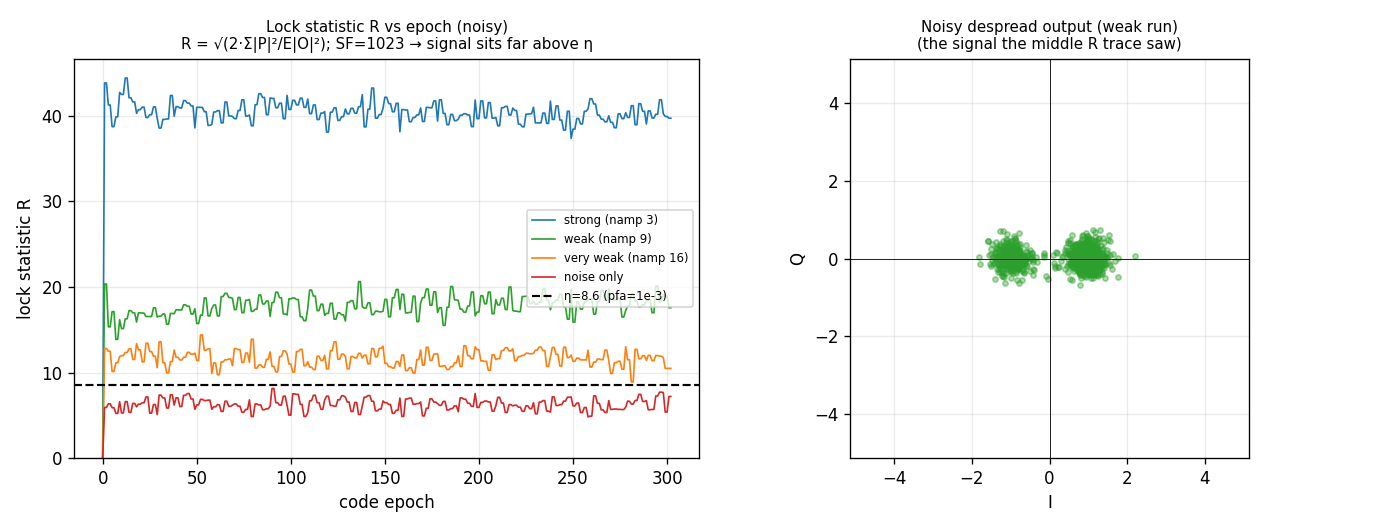
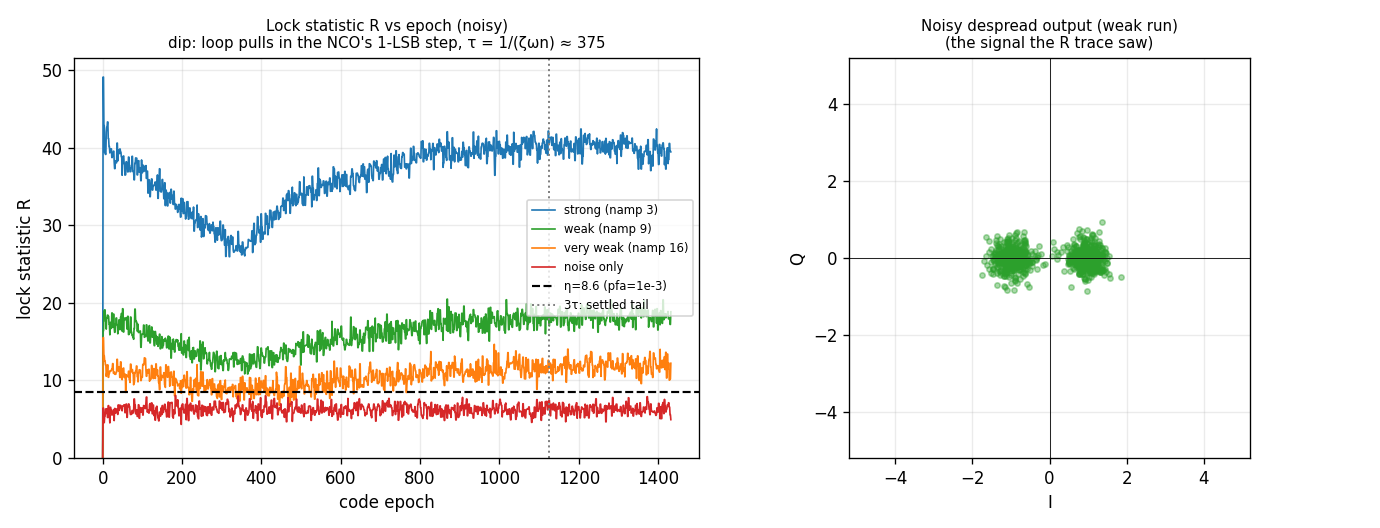
fix(examples): async_despread_demo shows the code loop's pull-in, and gates on it
The Dll's code NCO truncates its increment (15f2a366, nco_core.h:248), so
the loop starts against a code-rate step of about 9.5e-7. That step sets
the size of the transient. The loop bandwidth sets its length:
tau = 1/(zeta*wn), wn = 8*zeta*bn/(1+4*zeta^2), 375 epochs at bn=0.002 and
zeta=0.707. The demo ran 300 epochs, so it showed only the dip, and its
median-R assert could not tell a pull-in from a loop walking off.

- Run length is derived from BN and ZETA, the Dll's own parameters:
  SETTLE = ceil(3*tau) = 1126 epochs, plus a 300-epoch TAIL. The
  restated wn is pinned to LoopFilter's gains (ki/kp = wn/(2 zeta)).
- Asserts read the settled tail. Every signal run must recover to within
  10% of its start R; the strong and weak runs must clear eta by 1.5x;
  noise-only stays below eta; and the run must reach the tail. Sabotaged
  in copies: cut to 300 epochs (red on the length assert, and red on
  recovery with the tail moved inside the cut), and a loop that never
  absorbs the step (bn/20; red).
- Measured by the demo: the strong run starts at R 39.6, bottoms at 27.1
  around epochs 315-364, and is back within 5% from epoch 726.
- The gallery page and the design page's lock-detector section state the
  dip, its disturbance and its recovery time instead of "no residual
  ring". The noiseless panels are drawn from the settled tail.

make gallery for this script goes from 2.8 s to 7.1 s.

Closes #1670

Claude-Session: https://claude.ai/code/session_01BrZhANYiA19FGBsf5tumCu

diff --git a/src/doppler/examples/async_despread_demo.py b/src/doppler/examples/async_despread_demo.py
@@ -22,8 +22,20 @@ segments mode exists:
 The DLL runs on a **carrier-wiped** stream: the carrier loop is *upstream*
 (here a genie de-rotate stands in for the Costas loop that
 :class:`~doppler.dsss.AsyncDsssReceiver` runs before its DLL). With the carrier
-removed and the rate aided, the despread output is clean BPSK — no residual
-ring — and the code stays locked through the Doppler.
+removed and the rate aided, the despread output settles to clean BPSK and the
+code stays locked through the Doppler.
+
+It settles; it does not start there. The code NCO's increment is truncated
+to an integer phase step (``nco_core.h``, 15f2a366): each update runs up to
+1 LSB slow, 1.9e-6 of the code rate here, and half that on average. So the
+loop starts against a frequency step of about 9.5e-7, which its integrator
+has to absorb. That step sets only the SIZE of the disturbance. Its LENGTH
+is set by the code loop's bandwidth: a type-2 loop pulls a frequency step in
+with time constant ``1/(zeta*wn)``, ``wn = 8*zeta*bn/(1 + 4*zeta**2)``, about
+375 epochs at the ``bn = 0.002``, ``zeta = 0.707`` used here. While the
+integrator ramps up, the code phase lags, the despread envelope ripples and
+the lock statistic dips. The run is long enough to show both the dip and the
+recovery.
 
 Writes TWO figures. The despread story is noiseless so the envelope is clean;
 the lock detector needs noise to be meaningful, so it gets its own figure on
@@ -33,9 +45,9 @@ its own noisy signal — the two are never conflated.
   * **Oversampled async BPSK out** — the despread partial stream at ``K``
     samples/symbol; the symbol edges (dashed) slide through the code epochs
     because the symbol clock is independent of the code clock.
-  * **Clean despread constellation** — the same partials in the complex plane:
-    two tight BPSK clusters at ±1 (carrier wiped upstream, rate aided), not the
-    smeared ring an uncorrected residual carrier would leave.
+  * **Clean despread constellation** — the settled partials in the complex
+    plane: two tight BPSK clusters at ±1 (carrier wiped upstream, rate
+    aided), not the smeared ring an uncorrected residual carrier would leave.
   * **Code rate from aiding** — ``code_rate`` (the loop's own observable) sits
     at ~1.0 while the aid supplies the true ``1 + DCODE`` code-rate dilation:
     the DLL isn't rate-tracking the Doppler, it's being *handed* the rate.
@@ -43,7 +55,8 @@ its own noisy signal — the two are never conflated.
 ``<out>_lock.png`` — the always-on lock detector on a SEPARATE noisy run: the
   non-coherent lock statistic ``R = sqrt(2*sum|P|^2 / E|O|^2)`` (acquisition's
   test, with a random off-peak EMA noise reference) climbing past the CFAR
-  threshold at several SNRs, beside the noisy despread output it ran on.
+  threshold at several SNRs, dipping while the code loop pulls in the NCO's
+  frequency step and recovering, beside the noisy despread output it ran on.
 
 Run:  python -m doppler.examples.async_despread_demo  [out.png]
 """
@@ -69,7 +82,23 @@ F0 = 3e-4  # residual carrier, cyc/sample (removed upstream before the DLL)
 DCODE = 2e-4  # code Doppler (chip-rate offset), supplied to the DLL as aid
 DSYM = 4e-3  # symbol-vs-code rate offset (async)
 PHI = 0.37 * TE  # symbol-clock phase, samples
-NSYM = 300
+
+# The code loop, and how long it needs. bn is normalised to the code-epoch
+# rate (the loop updates once per epoch). The truncating code NCO starts the
+# loop with a frequency step of up to 1 LSB: that step sets the SIZE of the
+# transient. Its LENGTH comes from the loop bandwidth alone. A type-2 loop's
+# response to a frequency step decays as exp(-zeta*wn*t), so its time
+# constant is 1/(zeta*wn) epochs. This is dp_loop_filter_wn's formula (the
+# check in main() pins it to LoopFilter's own gains). After 3 time constants
+# the code-phase error is down to e^-3 = 5% of its peak, which costs R about
+# 1.5% against the ~30% at the trough, so that is where the settled TAIL
+# starts.
+BN, ZETA = 0.002, 0.707  # code-loop noise bandwidth (per epoch), damping
+WN = 8.0 * ZETA * BN / (1.0 + 4.0 * ZETA**2)  # rad/epoch
+TAU = 1.0 / (ZETA * WN)  # pull-in time constant, epochs (~375)
+SETTLE = int(np.ceil(3.0 * TAU))  # first settled epoch (~1126)
+TAIL = 300  # settled epochs the tail asserts read
+NSYM = SETTLE + TAIL  # one symbol spans ~1.004 epochs, so nep >= this
 
 
 def make_signal(code, seed=9):
@@ -112,12 +141,22 @@ def main(
     rxw = carrier_wipe(make_signal(code)[0])  # carrier removed upstream
     _, tsym = make_signal(code)
 
-    d = Dll(code, SPS, 0.0, 0.002, 0.707, 0.5, segments=K)
+    # The run length above restates dp_loop_filter_wn. Pin it to the loop
+    # the library actually builds: for its bilinear PI gains
+    # ki/kp = wn*t/(2*zeta), at t = 1 update per epoch.
+    from doppler.track import LoopFilter
+
+    lf = LoopFilter(BN, ZETA, 1.0)
+    assert abs(2.0 * ZETA * lf.ki / lf.kp - WN) < 1e-12 * WN, "wn drifted"
+
+    d = Dll(code, SPS, 0.0, BN, ZETA, 0.5, segments=K)
+    assert abs(d.bn - BN) < 1e-15, "Dll does not run the loop SETTLE assumes"
     # Carrier→code aiding: the upstream carrier loop's offset, as a code-rate
     # ratio, hands the DLL the Doppler dilation it can't pull in on its own.
     d.set_rate_aid(DCODE)
 
     nep = len(rxw) // TE
+    assert nep >= SETTLE + TAIL, f"run of {nep} epochs ends before the tail"
     rate = np.empty(nep)
     chunks = []
     for e in range(nep):
@@ -127,7 +166,7 @@ def main(
 
     # Aided + carrier-wiped: the despread envelope sits at ~1 (except the
     # partial straddling each async symbol edge) and the code holds lock.
-    env_med = float(np.median(np.abs(part[len(part) // 2 :])))
+    env_med = float(np.median(np.abs(part[SETTLE * K :])))
     print(f"settled despread envelope median = {env_med:.3f}")
     assert env_med > 0.9, "despread envelope collapsed"
     print(f"code locked = {bool(d.locked)}  lock_stat = {d.lock_stat:.1f}")
@@ -136,14 +175,14 @@ def main(
     # code_rate is the loop's OWN observable (1 + integrator); with the aid
     # carrying the DCODE dilation, the loop only mops up residual, so it stays
     # near 1.0 — far below the true 1 + DCODE the aid supplies.
-    settled_rate = float(rate[nep // 2 :].mean())
+    settled_rate = float(rate[SETTLE:].mean())
     print(f"loop code_rate (aid off the books) = {settled_rate:.6f}")
     assert abs(settled_rate - 1.0) < DCODE, "loop residual larger than the aid"
 
     fig, (a, b, c) = plt.subplots(1, 3, figsize=(13.5, 4.2))
 
     # --- 1. oversampled asynchronous BPSK out (settled window) ---
-    off = (len(part) * 6 // 10) // K * K  # past the code-loop pull-in
+    off = (SETTLE + TAIL // 2) * K  # inside the settled tail
     nshow = 16
     span = nshow * K
     pp = np.arange(off, off + span)
@@ -182,7 +221,7 @@ def main(
     a.grid(alpha=0.25)
 
     # --- 2. clean despread constellation (carrier wiped + rate aided) ---
-    w = part[200 : 200 + 80 * K]
+    w = part[SETTLE * K : (SETTLE + 80) * K]  # settled
     # align the BPSK axis to real (a downstream Costas job; genie here)
     w = w * np.exp(-0.5j * np.angle(np.mean(w**2)))
     b.scatter(w.real, w.imag, s=12, color="#1f77b4", alpha=0.5)
@@ -193,7 +232,7 @@ def main(
     b.axhline(0, color="k", lw=0.5)
     b.axvline(0, color="k", lw=0.5)
     b.set_title(
-        "Clean despread BPSK\n(carrier wiped upstream, rate aided — no ring)",
+        "Clean despread BPSK, settled\n(carrier wiped upstream, rate aided)",
         fontsize=9,
     )
     b.set_xlabel("I")
@@ -258,6 +297,7 @@ def _lock_figure(code, plt, out_path):
     rxw = carrier_wipe(make_signal(code)[0])
     nep = len(rxw) // TE
     thr = det_threshold_noncoherent(1e-3, 20)  # default lock config
+    assert nep >= SETTLE + TAIL, f"run of {nep} epochs ends before the tail"
     rng = np.random.default_rng(5)
 
     def add_noise(namp):
@@ -272,14 +312,14 @@ def _lock_figure(code, plt, out_path):
 
     # --- left: R vs epoch at several SNRs, + noise-only, vs threshold ---
     runs = [
-        ("strong (namp 3)", add_noise(3.0), "#1f77b4", None),
+        ("strong (namp 3)", add_noise(3.0), "#1f77b4", "strong"),
         ("weak (namp 9)", add_noise(9.0), "#2ca02c", "mid"),
         ("very weak (namp 16)", add_noise(16.0), "#ff7f0e", None),
         ("noise only", noise_only(9.0), "#d62728", None),
     ]
     mid_part = None
     for label, rxn, col, tag in runs:
-        dl = Dll(code, SPS, 0.0, 0.002, 0.707, 0.5, segments=K)
+        dl = Dll(code, SPS, 0.0, BN, ZETA, 0.5, segments=K)
         dl.set_rate_aid(DCODE)
         R = np.empty(nep)
         chunks = []
@@ -291,21 +331,48 @@ def _lock_figure(code, plt, out_path):
         a.plot(np.arange(nep), R, color=col, lw=1.0, label=label)
         if tag == "mid":
             mid_part = np.concatenate(chunks)
-        # CFAR behaviour: the strong and weak signal runs' settled lock
-        # statistic must sit above the threshold; the noise-only run
-        # must not.  The "very weak" run is deliberately marginal (it
-        # hovers at the gate) and is shown, not asserted.
-        r_med = float(np.median(R[nep // 2 :]))
-        print(f"lock stat median ({label}) = {r_med:.1f} vs eta {thr:.1f}")
+        # Asserts read the settled TAIL (epochs >= SETTLE), not a median
+        # over half the run: a median cannot tell a pull-in dip from a
+        # loop walking off, which is how a decaying R went unnoticed (#1670).
+        #  * CFAR: the strong and weak runs' tail sits at least 1.5x above
+        #    eta; the noise-only tail stays below it. The very weak run is
+        #    deliberately marginal (~1.4x) and gets no eta margin.
+        #  * Recovery: every signal run's tail comes back to within 10% of
+        #    where it started (epochs 2-39, before the dip has grown). The
+        #    trough is ~30% down, so a run cut short or a loop that never
+        #    absorbs the step fails here.
+        r_tail = float(np.median(R[SETTLE:]))
+        print(
+            f"lock stat tail median ({label}) = {r_tail:.1f} vs eta {thr:.1f}"
+        )
         if label == "noise only":
-            assert r_med < thr, "noise-only lock stat crossed the gate"
-        elif not label.startswith("very weak"):
-            assert r_med > thr, f"lock not declared on the {label} run"
+            assert r_tail < thr, "noise-only lock stat crossed the gate"
+            continue
+        if not label.startswith("very weak"):
+            assert r_tail > 1.5 * thr, f"{label}: tail R within 1.5x of eta"
+        r_start = float(np.median(R[2:40]))
+        assert r_tail > 0.9 * r_start, (
+            f"{label}: R did not recover ({r_tail:.1f} vs {r_start:.1f})"
+        )
+        if tag == "strong":
+            # The dip, measured on a 50-epoch running median (R itself is
+            # noisy epoch to epoch): its trough, and the first epoch after
+            # it where R is back within 5% of the start level.
+            win = np.lib.stride_tricks.sliding_window_view(R, 50)
+            sm = np.median(win, axis=1)  # sm[e] = median of R[e : e + 50]
+            trough = 2 + int(np.argmin(sm[2:SETTLE]))
+            back = trough + int(np.argmax(sm[trough:] > 0.95 * r_start))
+            print(
+                f"strong run: start R {r_start:.1f}, trough "
+                f"{sm[trough]:.1f} at epochs {trough}-{trough + 49}, back "
+                f"within 5% from epoch {back} (tau = {TAU:.0f} epochs)"
+            )
     a.axhline(thr, color="k", ls="--", lw=1.3, label=f"η={thr:.1f} (pfa=1e-3)")
+    a.axvline(SETTLE, color="0.5", ls=":", lw=1.2, label="3τ: settled tail")
     a.set_ylim(0, None)
     a.set_title(
         "Lock statistic R vs epoch (noisy)\n"
-        "R = √(2·Σ|P|²/E|O|²); SF=1023 → signal sits far above η",
+        f"dip: loop pulls in the NCO's 1-LSB step, τ = 1/(ζωn) ≈ {TAU:.0f}",
         fontsize=9,
     )
     a.set_xlabel("code epoch")
@@ -315,7 +382,7 @@ def _lock_figure(code, plt, out_path):
 
     # --- right: the noisy despread output the middle trace ran on ---
     if mid_part is not None:
-        seg = mid_part[len(mid_part) // 2 : len(mid_part) // 2 + 80 * K]
+        seg = mid_part[SETTLE * K : (SETTLE + 80) * K]  # settled
         seg = seg * np.exp(-0.5j * np.angle(np.mean(seg**2)))
         b.scatter(seg.real, seg.imag, s=10, color="#2ca02c", alpha=0.4)
         lim = 1.3 * float(np.median(np.abs(seg))) + 1e-9

diff --git a/docs/gallery/async-despread.md b/docs/gallery/async-despread.md
@@ -26,6 +26,10 @@ same value the receiver's refine/track stages use.
 
 ## What you're seeing
 
+The first two panels are drawn from the **settled tail** of the run, after the
+code loop has pulled in its start-up transient (see
+[The pull-in transient](#the-pull-in-transient) below).
+
 **Left — Oversampled asynchronous BPSK out.** The despread segment stream at
 `K = 11` samples/symbol, with the `|despread|` envelope (gray) drawn so the
 amplitude is explicit. The symbol edges (red, dashed) **slide** through the
@@ -37,8 +41,8 @@ symbol, which then integrates two opposite-sign data halves and is scaled by
 **confined to 1-of-`K`** instead of wiping a whole epoch — exactly what
 segmented coherent correlation buys you.
 
-**Middle — Clean despread BPSK.** The same segments in the complex plane: two
-tight BPSK clusters at ±1, *not* a smeared ring. The carrier was removed
+**Middle — Clean despread BPSK, settled.** Settled segments in the complex
+plane: two tight BPSK clusters at ±1, *not* a smeared ring. The carrier was removed
 upstream and the code rate is aided, so nothing rotates within the correlation —
 the despread is coherent. (An uncorrected residual carrier is what would smear
 these onto a ring; that is the carrier loop's job, done before the DLL, not
@@ -68,15 +72,43 @@ signal — the same carrier-wiped, rate-aided DLL.
 It forms `R = √(2·Σ|P|²/E|O|²)` over `N` looks — prompt power over a CFAR noise
 reference taken from a **random off-peak correlation** (re-drawn each epoch,
 EMA-averaged) — and latches `Dll.locked` when `R` crosses
-`det_threshold_noncoherent(pfa, N)`. **Left:** `R` per epoch at several SNRs; with
-Gold-1023's ~30 dB despread gain the signal traces sit far above the threshold
-even when very weak, while the noise-only trace hugs `√(2N) ≈ 6.3` below it.
+`det_threshold_noncoherent(pfa, N)`. **Left:** `R` per epoch at several SNRs.
+With Gold-1023's ~30 dB despread gain the strong and weak traces sit well above
+the threshold throughout, and the noise-only trace hugs `√(2N) ≈ 6.3` below it.
+The very weak trace is marginal by design: it touches the threshold at the
+bottom of the dip described next.
 **Right:** the noisy despread output behind the "weak" trace — the BPSK is still
 recoverable and the detector reports lock on it. Because the noise reference rides
 an EMA much longer than the `N`-look test (and is cumulative-mean-bootstrapped so
 it is unbiased from the first look), the false-alarm rate holds at the target
 `pfa` (default `1e-3`) from the start. The statistic and threshold are the *same*
 ones the FFT acquisition uses, so acquire and track agree on "detected".
+
+## The pull-in transient
+
+Every signal trace in the lock figure **dips and recovers**. This is the code
+loop pulling in a start-up frequency step, not a loop losing lock.
+
+- **The disturbance.** The code NCO's phase increment is truncated to an integer
+    step. That is deliberate: `nco_core.h:248`, from 15f2a366, keeps the loop
+    bit-identical across hosts. Each update therefore runs up to 1 LSB slow,
+    1.9e-6 of the code rate at this geometry, and half that on average. The
+    loop starts against a code-rate step of about 9.5e-7. The step sets only
+    the *size* of the transient.
+- **The recovery time.** The *length* of the transient is set by the loop
+    bandwidth. A type-2 loop pulls in a frequency step with time constant
+    `τ = 1/(ζωₙ)`, where `ωₙ = 8ζBₙ/(1+4ζ²)`. At this DLL's `bn = 0.002` per
+    epoch and `ζ = 0.707`, that is **τ ≈ 375 epochs**. While the integrator
+    ramps, the code phase lags, and `R` and the despread envelope suffer.
+- **Measured by the demo's own run.** The strong trace starts at `R ≈ 39.6`
+    and bottoms at **27.1 (32% down) around epochs 315–364**. It is back
+    within 5% of its start **from epoch 726**. The demo runs `3τ ≈ 1126`
+    epochs plus a 300-epoch tail. Past 3τ the code-phase error is under 5% of
+    its peak, and the example asserts on that settled tail: each signal
+    run's `R` must return to within 10% of its start, and the strong and weak
+    runs must clear the threshold by 1.5x.
+
+A narrower `bn` makes the dip longer, and a wider one shorter.
 
 ## How it works
 
@@ -99,7 +131,7 @@ the upstream carrier loop.
 code = np.asarray(Gold().generate(SF)).astype(np.uint8)
 rxw = carrier_wipe(make_signal(code)[0])   # carrier removed upstream
 
-d = Dll(code, sps=SPS, init_chip=0.0, bn=0.002, zeta=0.707, spacing=0.5,
+d = Dll(code, sps=SPS, init_chip=0.0, bn=BN, zeta=ZETA, spacing=0.5,
         segments=K)
 d.set_rate_aid(DCODE)     # carrier->code aiding supplies the code-rate dilation
 part = d.steps(rxw)       # oversampled async BPSK out (PN removed), clean BPSK

diff --git a/docs/design/async-dsss-receiver.md b/docs/design/async-dsss-receiver.md
@@ -337,6 +337,15 @@ of epochs. Measured: empirical Pfa ≈ 9e-4 against a 1e-3 target from the start
 a noise stream. `Dll.locked`, `Dll.lock_stat` and `Dll.noise_est` read it back,
 inside the normal `steps()`, with no opt-in.
 
+**`R` is not flat from the first epoch: it dips while the code loop pulls in.**
+The disturbance is the code NCO's truncated increment (`nco_core.h:248`,
+15f2a366): up to 1 LSB slow per update, about 9.5e-7 of the code rate on
+average at SF=1023 and sps=8. Its duration is the loop's, `τ = 1/(ζωₙ)` with
+`ωₙ = 8ζBₙ/(1+4ζ²)`, which is about 375 epochs at `bn = 0.002` and
+`ζ = 0.707`. In the [streaming despreader demo](../gallery/async-despread.md),
+`R` falls 32%, bottoming around epochs 315–364, and is back within 5% from
+epoch 726. Size a lock-dependent decision against the trough, or wait out 3τ.
+
 ### 3.6 The look-back window finds the transition-free epoch
 
 The code loop's error comes from the one-epoch window with the **most prompt

diff --git a/changelog.d/fixed/async-despread-pull-in-transient.md b/changelog.d/fixed/async-despread-pull-in-transient.md
@@ -1,0 +1,6 @@
+- **The async despreader demo shows the code loop's pull-in transient, and
+    gates on it.** Its lock statistic dips about 32% while the loop absorbs
+    the truncating NCO's frequency step. The dip lasts `1/(ζωₙ)` ≈ 375 epochs
+    at `bn = 0.002`. The run now lasts 3τ plus a tail, asserts that `R`
+    recovers, and the page states the dip instead of "no residual ring"
+    (#1670).
